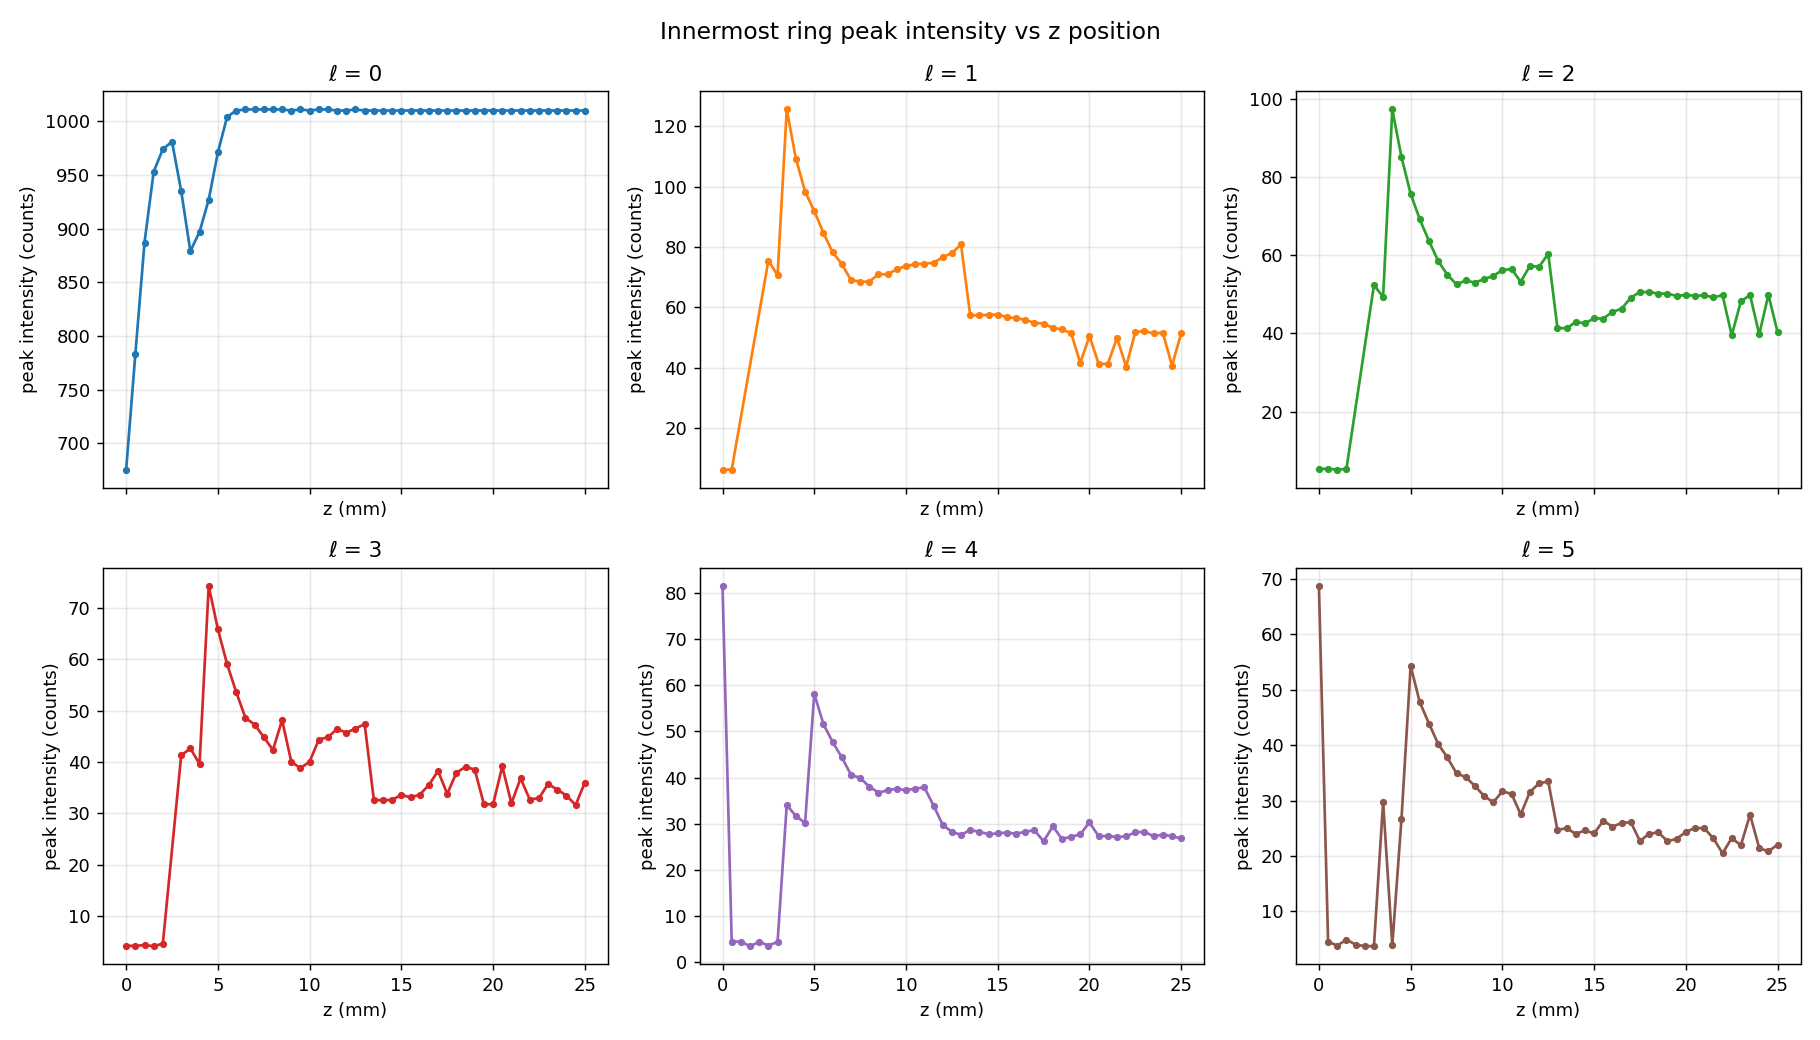
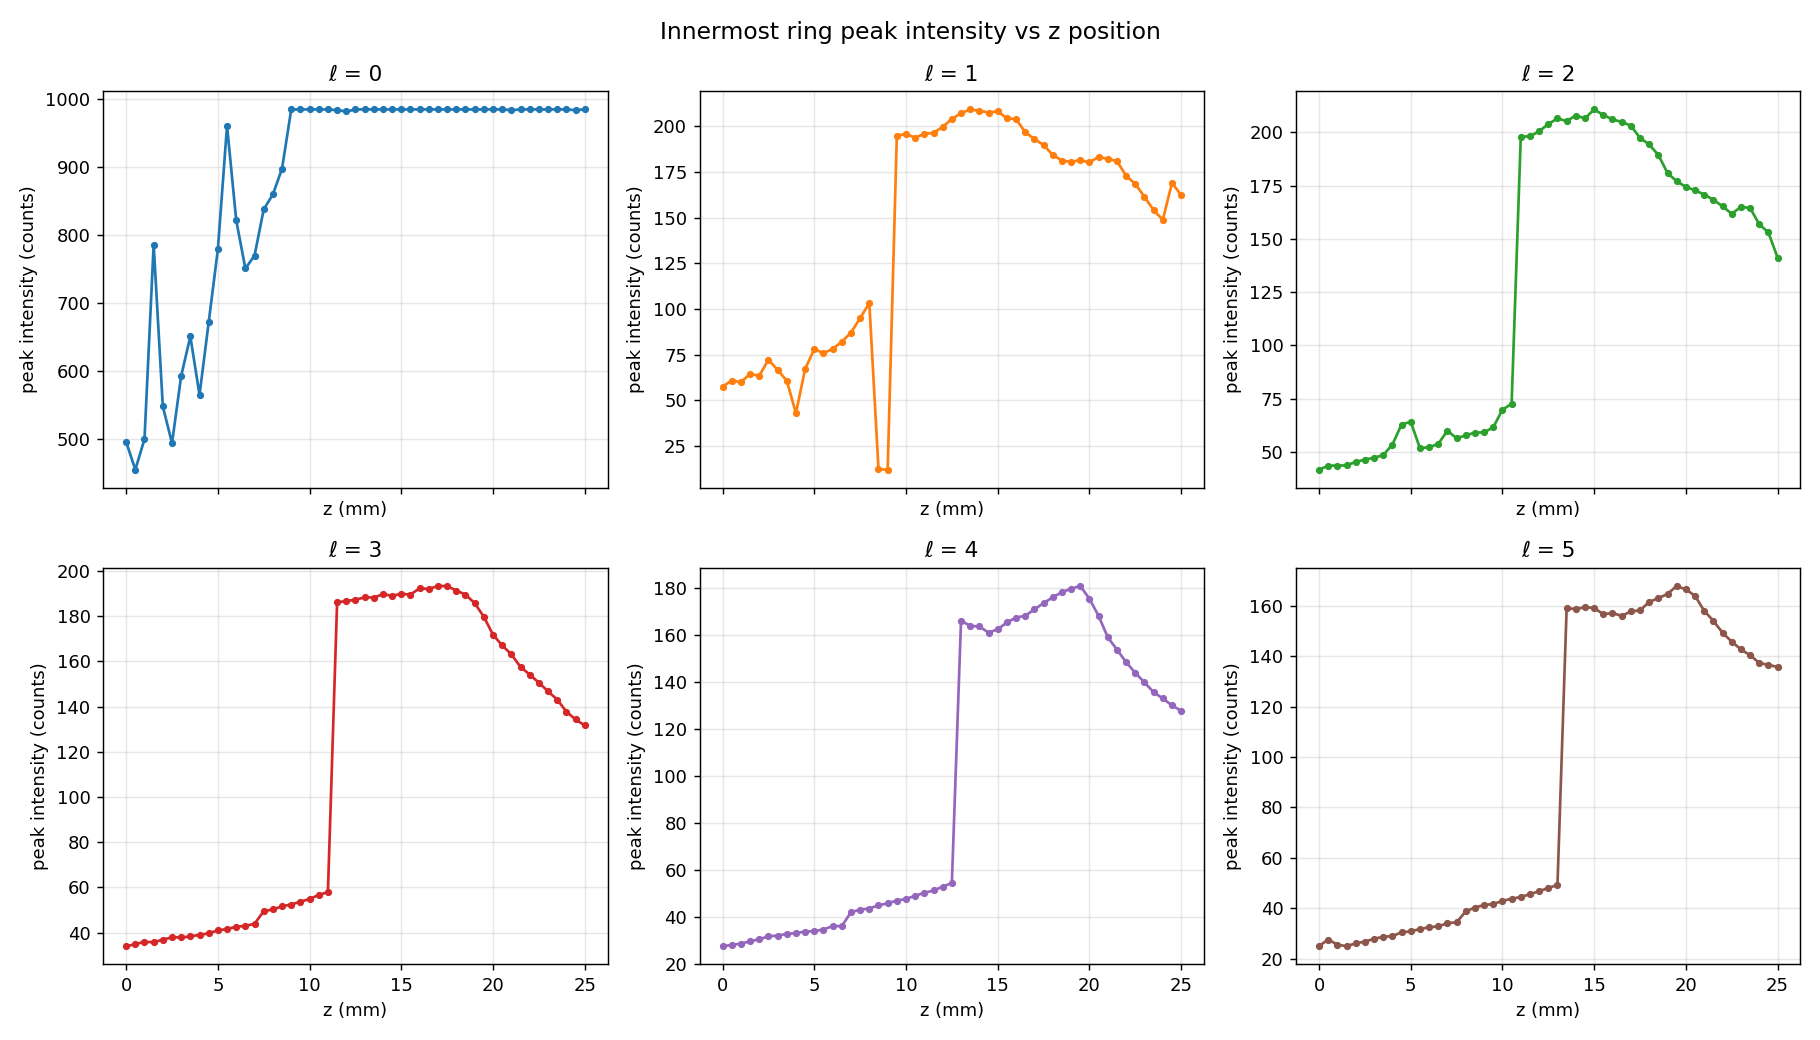
did more data analysis

diff --git a/focusing_data.py b/focusing_data.py
@@ -40,11 +40,11 @@ def _(mo):
 
 @app.cell
 def _(Path, mo, np):
-    ROOT = Path("/Users/carriecrane/GitHub/Optimal_Focusing/data/focusing_images/29_n10")
+    ROOT = Path("/Users/carriecrane/GitHub/Optimal_Focusing/data/focusing_images/29_n14")
     z_vals = np.arange(0,25.5, 0.5)
 
     BEAM_SIZE = 29
-    N_FOCUS = 10
+    N_FOCUS = 14
 
     blur = mo.ui.slider(0 , 3 , step = 0.5, value = 1.0, label = "Pre blur σ (px)")
     mo.vstack([mo.callout(mo.md(f"**Current dataset:** beam size = {BEAM_SIZE}, n = {N_FOCUS}"), kind = "info"),blur])
@@ -250,7 +250,7 @@ def _(all_results, np, plt, z_vals):
             ax.grid(True, alpha=0.3)
 
         plt.suptitle('Innermost ring radius vs z - beam = {BEAM_SIZE} mm   n = {N_FOCUS}', fontsize=13)
-    
+
         plt.tight_layout()
         plt.savefig("/Users/carriecrane/GitHub/Optimal_Focusing/ring_radius_vs_z.png", dpi=130)
         plt.close()
@@ -303,12 +303,40 @@ def _(BEAM_SIZE, N_FOCUS, all_results, gaussian_filter, mo, np, plt, z_vals):
         cy = float(np.average(Y[bright], weights=blurred[bright]))
         return cx, cy
 
-    def plot_beam_grid(l_val, step=5):
-        res     = all_results[l_val]
-        indices = list(range(0, len(res), step))
-        ncols   = len(indices)
+    def fourier_clean(img, r_cut=100):
+        """Suppress high spatial frequency noise via low-pass Fourier filter."""
+        from numpy.fft import fft2, ifft2, fftshift, ifftshift
+        ny, nx = img.shape
+        Y, X   = np.ogrid[:ny, :nx]
+        R_f    = np.sqrt((X - nx//2)**2 + (Y - ny//2)**2)
+        lpf    = np.exp(-(R_f / r_cut)**4)
+        F_filt = fftshift(fft2(img)) * lpf
+        out    = np.real(ifft2(ifftshift(F_filt)))
+        return np.clip(out, 0, None)
+    
+    def plot_beam_grid(l_val, step=5, bg_scale=0.3):
+        res      = all_results[l_val]
+        indices  = list(range(0, len(res), step))
+        ncols    = len(indices)
         fig, axes = plt.subplots(1, ncols, figsize=(ncols * 3, 3.5))
 
+        # Load background frame (first frame of this l value)
+        raw_bg  = res[0]["image"].astype(float)
+        bg_val  = np.median([raw_bg[:20,:20], raw_bg[:20,-20:],
+                             raw_bg[-20:,:20], raw_bg[-20:,-20:]])
+        img_bg  = np.clip(raw_bg - bg_val, 0, None)
+        img_bg_norm = img_bg / (img_bg.max() + 1e-6)
+
+        # Compute anchor center from first frame
+        blurred0   = gaussian_filter(img_bg, sigma=3)
+        thresh0    = np.percentile(blurred0, 95)
+        bright0    = blurred0 >= thresh0
+        Y0, X0     = np.mgrid[:blurred0.shape[0], :blurred0.shape[1]]
+        anchor_cx  = float(np.average(X0[bright0], weights=blurred0[bright0]))
+        anchor_cy  = float(np.average(Y0[bright0], weights=blurred0[bright0]))
+
+        half = 350
+    
         for ax, idx in zip(axes, indices):
             r   = res[idx]
             img = r["image"].astype(float)
@@ -316,36 +344,56 @@ def _(BEAM_SIZE, N_FOCUS, all_results, gaussian_filter, mo, np, plt, z_vals):
                              img[-20:,:20], img[-20:,-20:]])
             img = np.clip(img - bg, 0, None)
 
-            # Re-find center fresh for accurate cropping
-            cx, cy = find_crop_center(img)
+            # Subtract fixed pattern background
+            img = fourier_clean(img, r_cut=100)
 
-            # Adaptive crop size based on ring radius
-            if not np.isnan(r["ring_r"]) and r["ring_r"] > 0:
-                half = int(r["ring_r"] * 2.5)
+            # Find center but constrain to within 100px of anchor
+            blurred   = gaussian_filter(img, sigma=3)
+            threshold = np.percentile(blurred, 95)
+            bright    = blurred >= threshold
+            Y, X      = np.mgrid[:img.shape[0], :img.shape[1]]
+
+            # Only use bright pixels within 150px of anchor
+            dist_from_anchor = np.sqrt((X - anchor_cx)**2 + (Y - anchor_cy)**2)
+            bright = bright & (dist_from_anchor < 150)
+
+            if bright.sum() > 10:
+                cx = float(np.average(X[bright], weights=blurred[bright]))
+                cy = float(np.average(Y[bright], weights=blurred[bright]))
             else:
-                half = 300
-            half = max(100, min(half, 450))
+                cx, cy = anchor_cx, anchor_cy
 
             ny, nx = img.shape
             y1 = int(np.clip(cy - half, 0, ny - 2*half))
             x1 = int(np.clip(cx - half, 0, nx - 2*half))
             crop = img[y1:y1+2*half, x1:x1+2*half]
 
+            # Soft central mask for 0th order
+            crop_cx = cx - x1
+            crop_cy = cy - y1
+            Y_c, X_c = np.ogrid[:crop.shape[0], :crop.shape[1]]
+            R_c = np.sqrt((X_c - crop_cx)**2 + (Y_c - crop_cy)**2)
+            mask_r   = 20
+            softness = 5
+            soft_mask = 1 / (1 + np.exp(-(R_c - mask_r) / softness))
+            crop = crop * soft_mask
+
             vmax = np.percentile(img[img > 0], 99.5) if img.max() > 0 else 1
-            ax.imshow(crop, cmap='magma', origin='upper', vmax=vmax)
+            ax.imshow(crop, cmap='inferno', origin='upper', vmax=vmax)
             ax.set_title(f'z={z_vals[idx]:.1f}mm', fontsize=8)
             ax.axis('off')
 
-        plt.suptitle(f'ℓ = {l_val} beam = {BEAM_SIZE}  n = {N_FOCUS} - focusing sequence', y=1.02)
+        plt.suptitle(f'ℓ={l_val}  beam={BEAM_SIZE} n={N_FOCUS} — focusing sequence', y=1.02)
         plt.tight_layout()
-        plt.savefig(f"/Users/carriecrane/GitHub/Optimal_Focusing/beam_grid_l{l_val}_29_10.png", dpi=130)
+        plt.savefig(f"/Users/carriecrane/GitHub/Optimal_Focusing/analysis/29_14/beam_grid_l{l_val}.png", dpi=130)
         plt.close()
         print(f"saved beam_grid_l{l_val}.png")
 
     for l_val3 in range(6):
-        plot_beam_grid(l_val3, step=5)
+        plot_beam_grid(l_val3, step=5, bg_scale=0.3)
 
     mo.callout(mo.md("Beam grids saved."), kind="success")
+
     return
 
 
